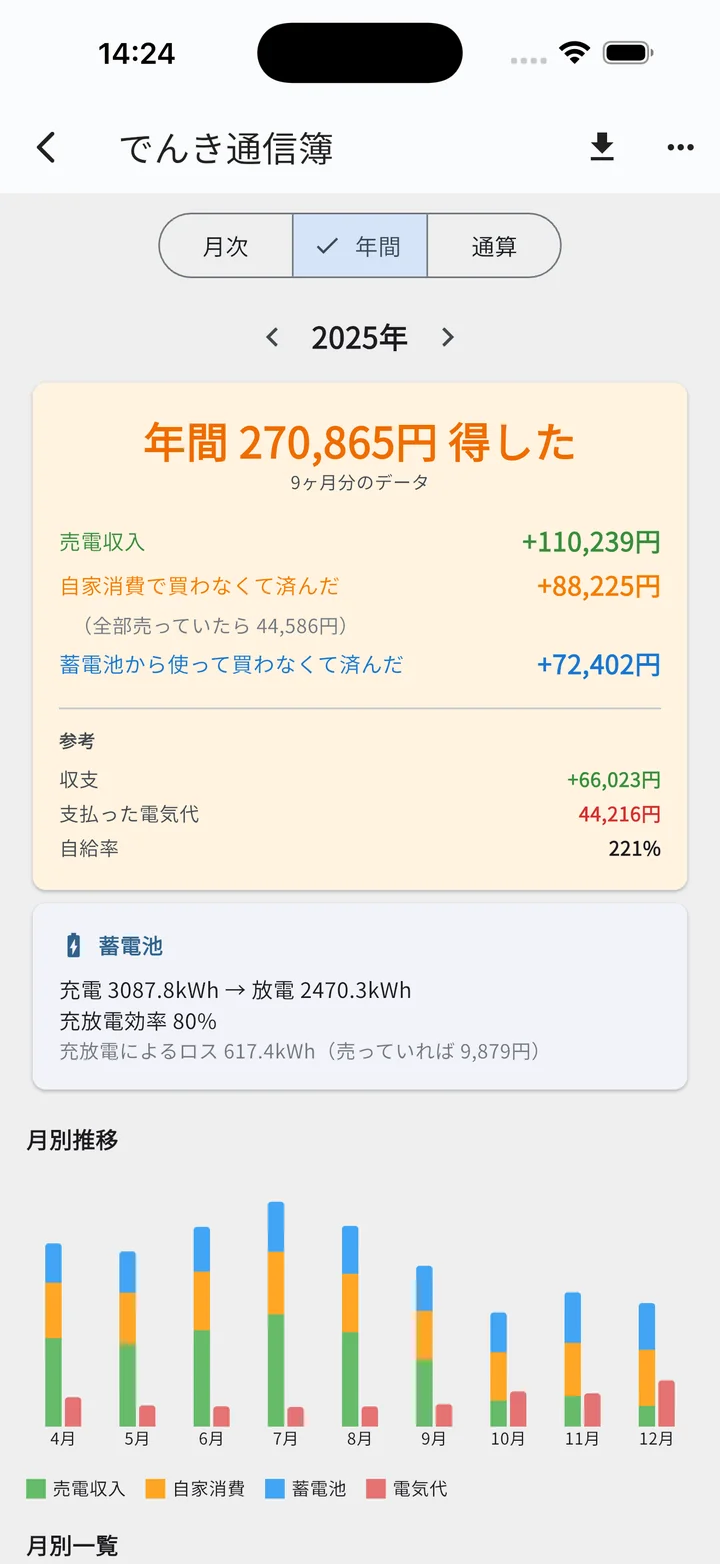
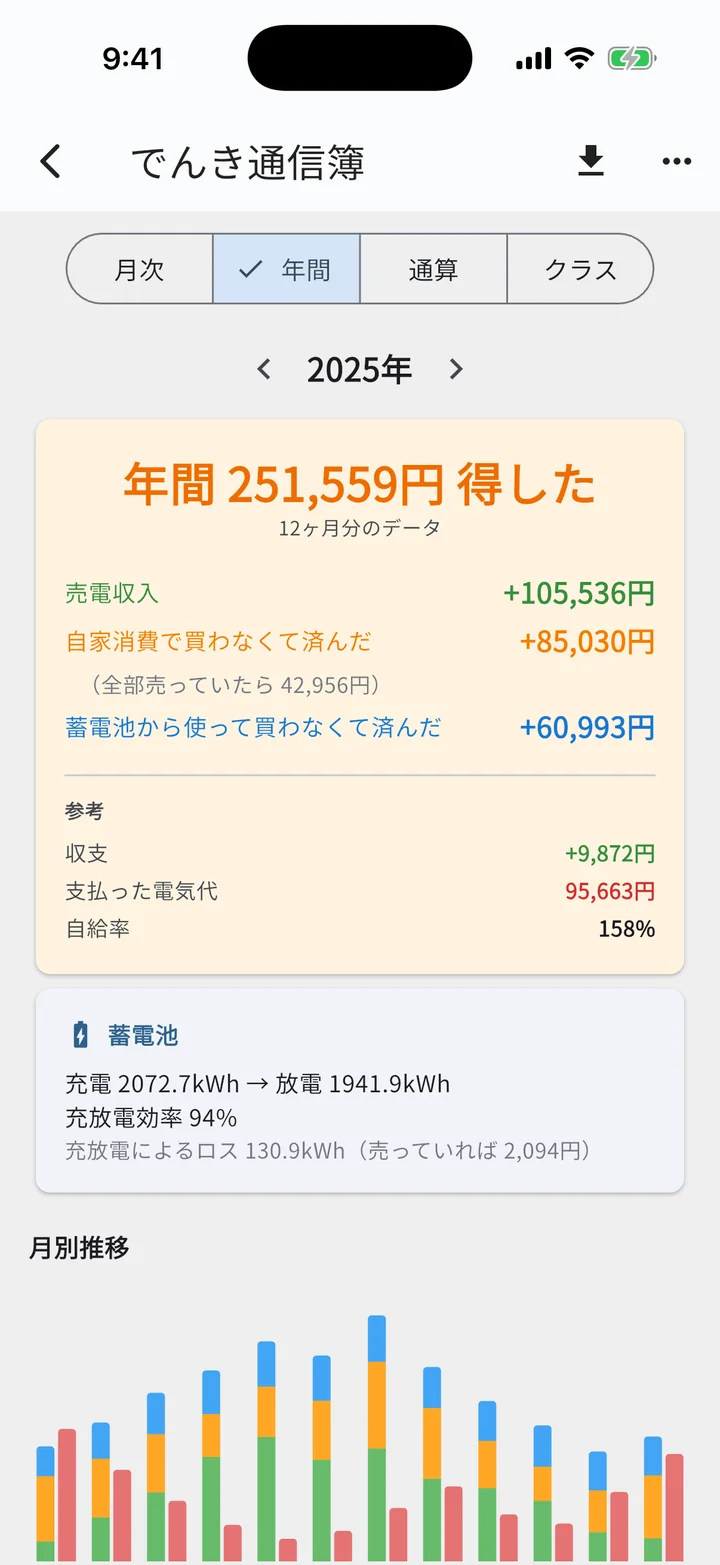
docs: クラスの節にスクショを追加し、実装に合わせて説明を直す
- クラスの提出・通信簿・歴代ベスト・詳しい画面・提出の設定の画面を追加
- セグメントが 4 つになった でんき通信簿の画面と、はじめましょうの画面を差し替え
- 取り込み完了ダイアログ・月次のカード・集計の日付・集まってきているカードの説明を実装に合わせる
- FAQ の「見られませんか」を図面や見積りの話に絞る

diff --git a/docs/manual.html b/docs/manual.html
@@ -2981,7 +2981,7 @@
   <thead><tr><th>形</th><th>目安</th><th>表示内容</th></tr></thead>
   <tbody>
     <tr><td>小</td><td>iOS の小 ／ Android の 2×2 ほど</td><td>見出し「次のお手入れ」と、期日がいちばん近いお手入れ 1 件（名前・場所・残り日数・進み具合のバー）。今すぐのものがあるときは「今すぐ ◯件」も出ます</td></tr>
-    <tr><td>中</td><td>iOS の中 ／ Android の 4×2 ほど</td><td>「今すぐ」「もうすぐ」「在庫わずか」の数と、期日が近いお手入れ 3 件まで</td></tr>
+    <tr><td>中</td><td>iOS の中 ／ Android の 4×2 ほど（スマホ。タブレットでは 4×2 でも大になります）</td><td>「今すぐ」「もうすぐ」「在庫わずか」の数と、期日が近いお手入れ 3 件まで</td></tr>
     <tr><td>大</td><td>iOS の大 ／ Android の 4×3 以上</td><td>今日の日付と件数、「今すぐ」「もうすぐ」の一覧。下に「余裕あり」「今日実施」の件数</td></tr>
     <tr><td>特大</td><td>iPad の特大 ／ 横に広い Android タブレット</td><td>「今すぐ」「もうすぐ」「今日実施」と「在庫わずか」（消耗品の名前と在庫数）を 3 列の当番表で表示</td></tr>
   </tbody>
@@ -2998,7 +2998,7 @@
 <ul>
   <li><strong>「アプリでお手入れを追加してください」</strong>：お手入れが 1 件もないときの表示です</li>
   <li><strong>「今すぐのお手入れはありません」</strong>：今すぐのものがないときの表示です。次のお手入れがあれば、その下に表示されます</li>
-  <li><strong>「アプリを開くと表示されます」</strong>：ウィジェットに表示するデータがまだないときの表示です（ウィジェットを置いた直後やアプリの更新の直後など）。アプリを一度開くと表示されます</li>
+  <li><strong>「アプリを開くと表示されます」</strong>：アプリをインストール（更新）してから、まだ一度もアプリを開いていないときの表示です。アプリを一度開くと表示されます</li>
 </ul>
 
 <h4>タップしたとき</h4>
@@ -3011,7 +3011,7 @@
 <h4>更新のタイミング</h4>
 <ul>
   <li>アプリでお手入れ・部屋・消耗品・担当などを変えると、すぐに反映されます。アプリを開いたときや、アプリに戻ってきたときも最新になります</li>
-  <li>残り日数と「今すぐ」「もうすぐ」の分け方は、日付が変わると自動で進みます（アプリを開かなくても「あと1日」→「今日」→「1日超過」と変わります）</li>
+  <li>残り日数と「今すぐ」「もうすぐ」の分け方は、日付が変わると自動で進みます（アプリを開かなくても「あと1日」→「今日」→「1日超過」と変わります。切り替わるのは 0 時ちょうどとは限らず、少し遅れることがあります）</li>
   <li><a href="#maintenance-family">家族と共有</a>中に家族が記録した内容は、この端末でアプリを開いたときに反映されます</li>
   <li>デモモード中はウィジェットの表示を書き換えません（デモを始める前の表示のままです）</li>
 </ul>
@@ -3049,15 +3049,15 @@
 
 <div class="shot-grid">
   <figure class="shot-phone">
-    <img src="images/electricity_monthly.webp" width="720" height="1564" alt="でんき通信簿メイン（月次）" loading="lazy" decoding="async">
+    <img src="images/electricity_monthly.webp" width="720" height="1565" alt="でんき通信簿メイン（月次・得した合計の下にクラスのカード）" loading="lazy" decoding="async">
     <figcaption>月次セグメント</figcaption>
   </figure>
   <figure class="shot-phone">
-    <img src="images/electricity_annual.webp" width="720" height="1564" alt="でんき通信簿メイン（年間）" loading="lazy" decoding="async">
+    <img src="images/electricity_annual.webp" width="720" height="1565" alt="でんき通信簿メイン（年間）" loading="lazy" decoding="async">
     <figcaption>年間セグメント</figcaption>
   </figure>
   <figure class="shot-phone">
-    <img src="images/electricity_total.webp" width="720" height="1564" alt="でんき通信簿メイン（通算）" loading="lazy" decoding="async">
+    <img src="images/electricity_total.webp" width="720" height="1565" alt="でんき通信簿メイン（通算）" loading="lazy" decoding="async">
     <figcaption>通算セグメント</figcaption>
   </figure>
   <figure class="shot-phone">
@@ -3108,7 +3108,7 @@
   <li><strong>右上のメニューから「CSVインポート」</strong></li>
   <li><strong>ファイルピッカーでCSVを選択</strong></li>
   <li><strong>取り込み進捗を確認</strong></li>
-  <li><strong>インポート完了ダイアログ</strong><p>取り込んだ件数・対象期間・月数が表示されます。新記録（発電量・収支など）を更新した場合は、🏆 マークとともに「レコード更新！」セクションで何の記録がどれだけ伸びたかが一覧表示されます。この取り込みで新しくそろった月があると、「OK」の左に「◯年◯月分をクラスに提出する」が出ます（<a href="#electricity-class-submit">クラスへの提出</a>）。OKを押すと、画面が自動で最新月に更新されます。</p></li>
+  <li><strong>インポート完了ダイアログ</strong><p>取り込んだ件数・対象期間・月数が表示されます。新記録（発電量・収支など）を更新した場合は、🏆 マークとともに「レコード更新！」セクションで何の記録がどれだけ伸びたかが一覧表示されます。この取り込みで新しくそろった月があると、「OK」の左に「◯年◯月分をクラスに提出する」が出ます（<a href="#electricity-class-submit">クラスへの提出</a>。自動で提出する設定のときは、代わりにダイアログの中に提出の結果が出ます）。OKを押すと、画面が自動で最新月に更新されます。</p></li>
 </ol>
 
 <div class="shot-grid">
@@ -3117,8 +3117,8 @@
     <figcaption>取り込み中</figcaption>
   </figure>
   <figure class="shot-phone">
-    <img src="images/electricity_csv_done.webp" width="720" height="1564" alt="CSV取り込み完了ダイアログ（新記録の通知付き）" loading="lazy" decoding="async">
-    <figcaption>取り込み完了（新記録の通知付き）</figcaption>
+    <img src="images/electricity_csv_done.webp" width="720" height="1565" alt="CSV取り込み完了ダイアログ（新記録の通知と「2026年7月分をクラスに提出する」付き）" loading="lazy" decoding="async">
+    <figcaption>取り込み完了（新記録の通知・クラスに提出するボタン付き）</figcaption>
   </figure>
 </div>
 
@@ -3398,8 +3398,8 @@
 
 <div class="shot-grid">
   <figure class="shot-phone">
-    <img src="images/electricity_monthly.webp" width="720" height="1564" alt="月次レポート 上半分（得した合計・蓄電池）" loading="lazy" decoding="async">
-    <figcaption>月次レポート上半分：得した合計・蓄電池</figcaption>
+    <img src="images/electricity_monthly.webp" width="720" height="1565" alt="月次レポート 上半分（得した合計・クラスのカード・蓄電池）" loading="lazy" decoding="async">
+    <figcaption>月次レポート上半分：得した合計・クラスのカード・蓄電池</figcaption>
   </figure>
   <figure class="shot-phone">
     <img src="images/electricity_monthly_scroll.webp" width="720" height="1564" alt="月次レポート 下半分（ヒートマップ・日別リスト・ハイライト）" loading="lazy" decoding="async">
@@ -3425,7 +3425,7 @@
 
 <div class="shot-grid">
   <figure class="shot-phone">
-    <img src="images/electricity_annual.webp" width="720" height="1564" alt="年間レポート 上半分（年間の得した合計・蓄電池・月別棒グラフ）" loading="lazy" decoding="async">
+    <img src="images/electricity_annual.webp" width="720" height="1565" alt="年間レポート 上半分（年間の得した合計・蓄電池・月別棒グラフ）" loading="lazy" decoding="async">
     <figcaption>年間レポート上半分：年間の得した合計・蓄電池・棒グラフ</figcaption>
   </figure>
   <figure class="shot-phone">
@@ -3484,7 +3484,7 @@
 </table>
 <div class="shot-grid">
   <figure class="shot-phone">
-    <img src="images/electricity_records_daily.webp" width="720" height="1564" alt="デイリーベスト（1日の記録 8 項目）" loading="lazy" decoding="async">
+    <img src="images/electricity_records_daily.webp" width="720" height="1565" alt="デイリーベスト（1日の記録 8 項目）" loading="lazy" decoding="async">
     <figcaption>デイリーベスト</figcaption>
   </figure>
   <figure class="shot-phone">
@@ -3556,8 +3556,8 @@
 <h4 id="electricity-class-submit">提出のしかた</h4>
 <p>提出できるのは、その月のデータが月末までそろった月です（途中の月は提出できません）。過去の月も提出できます。入口は次の 3 つで、どれも同じ「提出する内容」の画面が開きます。</p>
 <ul>
-  <li><strong>CSV 取り込みの完了ダイアログ</strong>：その取り込みで新しくそろった月があると、「OK」の左に<strong>「◯年◯月分をクラスに提出する」</strong>が出ます</li>
-  <li><strong>月次レポートのカード</strong>：得した合計カードのすぐ下に出ます。まだ提出したことがないときは「提出すると、クラスの通信簿がもらえます」（× で閉じると、この端末では出なくなります）。提出している人には「◯年◯月分をクラスに提出する」、提出済みの月は「◯年◯月分を提出しました」と「クラスの通信簿を見る ›」（押すとクラスの画面のその月へ）。料金プランが未設定のあいだは、このカードは出ません</li>
+  <li><strong>CSV 取り込みの完了ダイアログ</strong>：その取り込みで新しくそろった月があると、「OK」の左に<strong>「◯年◯月分をクラスに提出する」</strong>が出ます（自動で提出する設定のときは、ボタンの代わりに提出の結果が出ます。送れなかったときだけボタンが出ます）</li>
+  <li><strong>月次レポートのカード</strong>：得した合計カードのすぐ下に出ます。まだ提出したことがないときは「提出すると、クラスの通信簿がもらえます」（× で閉じると、この端末では出なくなります）。提出している人には「◯年◯月分をクラスに提出する」、提出済みの月は「◯年◯月分を提出しました」と「クラスの通信簿を見る ›」（押すとクラスの画面のその月へ）。料金プランが未設定のあいだと、今後の提出をやめたあとは、このカードは出ません</li>
   <li><strong>クラスのセグメント</strong>：まだ提出していないときは「発電量や電気代などが、提出した家の中で上位何%かが分かります」の説明と「提出する」ボタン（いちばん新しい月の提出の画面が開きます）</li>
 </ul>
 
@@ -3577,12 +3577,34 @@
   <li><strong>「提出する」</strong>：押すと送信します。提出するのは、この画面に表示している数字だけです</li>
 </ol>
 
+<div class="shot-grid">
+  <figure class="shot-phone">
+    <img src="images/class_submit_sheet_top.webp" width="720" height="1565" alt="「提出する内容」の画面の上部（2026年7月分の月の数字 8 つと、家の情報の「提出する」スイッチ）" loading="lazy" decoding="async">
+    <figcaption>提出する内容：月の数字と家の情報</figcaption>
+  </figure>
+  <figure class="shot-phone">
+    <img src="images/class_submit_sheet_bottom.webp" width="720" height="1565" alt="「提出する内容」の画面の下部（これまでの月もまとめて提出する・歴代ベストもいっしょに提出します）" loading="lazy" decoding="async">
+    <figcaption>まとめて提出・歴代ベスト</figcaption>
+  </figure>
+</div>
+
 <h5>提出したあと</h5>
 <ul>
   <li>「提出しました」と「今回の数字は、明日からクラスの通信簿に載ります」が出ます。集計は 1 日 1 回、朝 4 時ごろです</li>
-  <li><strong>「次からは、データを取り込んだときに自動で提出する」</strong>（はじめは OFF）：ON にすると、次からは CSV を取り込んで新しくそろった月を自動で提出します（歴代ベストもいっしょに提出します）。結果は取り込み完了ダイアログの下に「◯年◯月分を提出しました」のように出ます。あとからクラスの画面や<a href="#electricity-class-settings">提出の設定</a>で切り替えられます</li>
+  <li><strong>「次からは、データを取り込んだときに自動で提出する」</strong>（はじめは OFF）：ON にすると、次からは CSV を取り込んで新しくそろった月を自動で提出します（歴代ベストもいっしょに提出します）。結果は取り込み完了ダイアログの中に「◯年◯月分を提出しました」のように出ます（通信できないときは「まだ提出できていません」、送れなかったときは「提出できませんでした」と「◯年◯月分をクラスに提出する」）。あとからクラスの画面や<a href="#electricity-class-settings">提出の設定</a>で切り替えられます</li>
   <li>通信できないときは「まだ提出できていません」と出ます。通信できるようになると、自動で提出されます</li>
 </ul>
+
+<div class="shot-grid">
+  <figure class="shot-phone">
+    <img src="images/class_done_sheet.webp" width="720" height="1565" alt="「提出しました」の画面（2026年7月分の提出のはんこ・次からは自動で提出するスイッチ・クラスの通信簿を見る）" loading="lazy" decoding="async">
+    <figcaption>提出しました・自動で提出するスイッチ</figcaption>
+  </figure>
+  <figure class="shot-phone">
+    <img src="images/class_import_auto.webp" width="720" height="1565" alt="自動で提出したときの取り込み完了ダイアログ（クラス 2026年8月分を提出しました）" loading="lazy" decoding="async">
+    <figcaption>自動の提出の結果（取り込み完了ダイアログ）</figcaption>
+  </figure>
+</div>
 
 <h4 id="electricity-class-screen">クラスの画面（クラスの通信簿）</h4>
 <p>セグメントの「クラス」を選ぶと開きます。上から順に、切り替え・ハイライト・クラスの通信簿が並びます。</p>
@@ -3604,11 +3626,22 @@
   <li><strong>クラスの通信簿</strong>：8 つの科目の自分の数字と、位置（<strong>「上位◯%」「真ん中」「下位◯%」</strong>）が並びます。どの科目も<strong>数字の大きい順</strong>に数えます（電気代・消費量・買電量も、大きいほど「上位」です）</li>
   <li><strong>メダルとはんこ</strong>：上位 3% 以内は金のメダル、上位 4〜10% は朱のはんこが付きます</li>
   <li><strong>← →</strong>：月（期間が年なら年）を切り替えます。提出して集計に入った月（年）だけに移動します</li>
-  <li><strong>「◯月◯日の集計」と ↻</strong>：いつの集計かを表示します。↻ で最新の集計を読み込みます</li>
+  <li><strong>「2026/09/28の集計」のような日付と ↻</strong>：いつの集計かを表示します。↻ で最新の集計を読み込みます</li>
   <li>位置が出ないときは、行に理由が出ます：「まだ比べられる家が少ないです」／「延床を入力すると表示されます」「太陽光の容量を提出すると表示されます」など（行を押すと、その場で入力して提出済みの月と歴代ベストに付けて提出できます。表示されるのは明日からです）／「料金プラン未設定」</li>
-  <li>位置が 1 つも出ないときは、通信簿の代わりに<strong>「提出した家が集まってきています」</strong>のカードが出ます（いまの軒数の目安と、10 軒以上で表示されること）。「すべての家で見る」で比べる家を戻せます</li>
+  <li>位置が 1 つも出ないときは、ハイライトの代わりに<strong>「提出した家が集まってきています」</strong>のカードが出ます（いまの軒数の目安と、10 軒以上で表示されること）。「すべての家で見る」で比べる家を戻せます</li>
   <li>同じ断熱地域・同じ売電単価で比べられないときは、理由と、入力・提出・売電プランの設定への近道がカードで出ます。月の途中で売電プランが変わった月は、同じ売電単価の家とは比べられません（年で見ているときは「月ごとに見る」）</li>
 </ul>
+
+<div class="shot-grid">
+  <figure class="shot-phone">
+    <img src="images/class_report_month.webp" width="720" height="1565" alt="クラスの画面（比べる家・ものさし・期間の切り替え、7月のあなたの一番 = 発電量 上位1%、クラスの通信簿のメダルとはんこ）" loading="lazy" decoding="async">
+    <figcaption>切り替え・ハイライト・クラスの通信簿</figcaption>
+  </figure>
+  <figure class="shot-phone">
+    <img src="images/class_gathering.webp" width="720" height="1565" alt="同じ断熱地域で比べたときの「5 地域の家が集まってきています」のカード（軒数の目安・すべての家で見る）" loading="lazy" decoding="async">
+    <figcaption>提出した家が集まってきています</figcaption>
+  </figure>
+</div>
 
 <h5>期間：年</h5>
 <p>1 月からの合計で比べます（年の途中は「1〜◯月の合計」）。比べる相手は、その年の 1 月から同じ月までを<strong>すべて提出した家</strong>です。途中の月が抜けているときは「◯月分がまだ提出されていません」と出て、合計と位置は表示されません（「提出する」から抜けた月を提出できます）。</p>
@@ -3616,8 +3649,8 @@
 <h5>期間：歴代ベスト</h5>
 <p>自分の歴代ベスト（科目ごとの過去最高の 1 か月）が、提出した家の歴代ベストの中でどのあたりかを表示します。上位 10% 以内の科目には<strong>「殿堂入り」</strong>の札が付きます。記録を更新すると、翌日から歴代ベストに反映されます。同じ売電単価で比べるときは、記録の月の売電単価ごとに比べます。</p>
 
-<h5>くわしく（行をタップ）</h5>
-<p>通信簿の行（› が付いた行）をタップすると、その科目の「くわしく」が開きます。</p>
+<h5>科目の詳しい画面（行をタップ）</h5>
+<p>通信簿の行（› が付いた行）をタップすると、その科目の詳しい画面が下から開きます。</p>
 <ul>
   <li>比べた条件（期間・比べる家と軒数の目安・ものさし）と、自分の数字・位置</li>
   <li>「中央値」「下位25%の境目」「上位25%の境目」（10 軒以上のとき）</li>
@@ -3625,6 +3658,17 @@
   <li>自分の数字と中央値の推移のグラフ（歴代ベスト以外）</li>
   <li>注記：金額の科目は「金額は、料金プランの違いも含めて比べています」、自給率は「自給率は発電量 ÷ 消費量です。100%を超えることがあります」。どの科目も<strong>提出したときの数字</strong>で比べています（あとからマイページや料金プランを直しても、提出済みの数字は変わりません）</li>
 </ul>
+
+<div class="shot-grid">
+  <figure class="shot-phone">
+    <img src="images/class_best.webp" width="720" height="1565" alt="期間：歴代ベスト（殿堂入りの札が付いた科目と、各科目の位置）" loading="lazy" decoding="async">
+    <figcaption>歴代ベスト（殿堂入り）</figcaption>
+  </figure>
+  <figure class="shot-phone">
+    <img src="images/class_detail.webp" width="720" height="1565" alt="自給率の詳しい画面（中央値・下位25%の境目・上位25%の境目、分布の図、月別推移）" loading="lazy" decoding="async">
+    <figcaption>科目の詳しい画面：中央値・分布・推移</figcaption>
+  </figure>
+</div>
 
 <h4 id="electricity-class-settings">提出の設定・今後の提出をやめる</h4>
 <p>クラスの画面のいちばん下に「提出の設定」があります。</p>
@@ -3638,6 +3682,17 @@
   <li><strong>提出した月</strong>：年ごとに、提出した月が並びます</li>
   <li><strong>家の情報</strong>：延床・太陽光の容量・断熱地域・売電単価のそれぞれを、次から提出するかどうかをスイッチで切り替えます。切り替えは次の提出から反映され、提出済みの月は変わりません。提出済みの月の値を直すときは、その行を押して入力し直してください（提出済みの月と歴代ベストに付けて提出し直します）</li>
 </ul>
+
+<div class="shot-grid">
+  <figure class="shot-phone">
+    <img src="images/class_settings_tail.webp" width="720" height="1565" alt="クラスの画面のいちばん下の「提出の設定」（自動で提出するスイッチ・今後の提出をやめる・クラスのサポート用 ID）" loading="lazy" decoding="async">
+    <figcaption>クラスの画面の末尾：提出の設定</figcaption>
+  </figure>
+  <figure class="shot-phone">
+    <img src="images/class_settings_sheet.webp" width="720" height="1565" alt="設定から開いた「でんき通信簿のクラス」（提出した月・自動で提出するスイッチ・家の情報のスイッチ）" loading="lazy" decoding="async">
+    <figcaption>設定 &gt; でんき通信簿のクラス</figcaption>
+  </figure>
+</div>
 <div class="callout info">
   <p>延床・太陽光の容量・断熱地域は、<a href="#mypage-edit">マイページ</a>の値をそのまま使います。マイページで直しても、その場では提出されず、次の提出から変更後の値になります。クラスに提出している間は、マイページの編集画面のこの 3 つの欄の下に「でんき通信簿のクラスにも提出しています。変更は次の提出から反映されます」と表示されます。</p>
 </div>
@@ -3646,13 +3701,13 @@
 <table>
   <thead><tr><th></th><th>内容</th></tr></thead>
   <tbody>
-    <tr><td>送るもの</td><td>提出する月ごとの発電量・売電量・消費量・買電量（kWh）と自給率 ／ 得した合計・電気代・売電収入（円・料金プランを設定している月だけ）／ 売電単価（1 円単位）／ 断熱地域・延床（坪の整数）・太陽光の容量（0.1kW 単位）／ 歴代ベスト（8 科目の値と年月・その月の売電単価）。あわせて、アプリが自動で作る識別子と提出の日時が送られます</td></tr>
+    <tr><td>送るもの</td><td>提出する月ごとの発電量・売電量・消費量・買電量（kWh）と自給率 ／ 得した合計・電気代・売電収入（円・料金プランを設定している月だけ）／ 売電単価（1 円単位）／ 断熱地域・延床（坪の整数）・太陽光の容量（0.1kW 単位）／ 歴代ベスト（8 科目の値と年月・その月の売電単価）。あわせて、アプリが自動で作る ID と提出の日時が送られます</td></tr>
     <tr><td>送らないもの</td><td>名前・ニックネーム・写真・住所・都道府県・メールアドレス ／ 料金プラン名・電力会社 ／ 1 日ごと・1 時間ごとの数字 ／ 図面・見積りなどの書類</td></tr>
   </tbody>
 </table>
 <ul>
   <li><strong>保存期間</strong>：提出した数字は、最後に提出してから約 1 年で自動的に消えます。保存期間が過ぎると、クラスの画面に「提出した数字の保存期間（1年）が過ぎました。もう一度まとめて提出しますか」と出ます</li>
-  <li><strong>すぐに消したいとき</strong>：<a href="#electricity-class-settings">クラスのサポート用 ID</a> を添えて <a href="#contact">お問い合わせ</a> ください（設定 &gt; ご意見・不具合の報告、または info@smartolio.jp）。アプリを入れ直す前に提出した数字は、今の ID では特定できません（最後の提出から約 1 年で自動的に消えます）</li>
+  <li><strong>すぐに消したいとき</strong>：<a href="#electricity-class-settings">クラスのサポート用 ID</a> を添えて <a href="#contact">お問い合わせ</a> ください（設定 &gt; ご意見・不具合の報告、または info@smartolio.jp）。アプリを入れ直す前に提出した数字は、今の ID では特定できないことがあります（最後の提出から約 1 年で自動的に消えます）</li>
 </ul>
 <p>くわしくは <a href="https://smartolio.jp/privacy/ichijo-unofficial-app/" target="_blank" rel="noopener">プライバシーポリシー</a> をご覧ください。</p>
 
@@ -3670,7 +3725,7 @@
   <div class="action-row"><strong>実績データ削除（右上メニュー）</strong><span>月次：当月／年次：当年／通算：年＋月ツリーピッカーで選択削除</span></div>
   <div class="action-row"><strong>「◯年◯月分をクラスに提出する」</strong><span>クラスへの提出の画面を開く（取り込み完了ダイアログ・月次のカード）</span></div>
   <div class="action-row"><strong>クラス：比べる家／ものさし／期間</strong><span>クラスの通信簿の比べ方を切替</span></div>
-  <div class="action-row"><strong>クラス：通信簿の行をタップ</strong><span>その科目の「くわしく」（中央値・分布・推移）を開く</span></div>
+  <div class="action-row"><strong>クラス：通信簿の行をタップ</strong><span>その科目の詳しい画面（中央値・分布・推移）を開く</span></div>
   <div class="action-row"><strong>クラス：↻</strong><span>最新の集計を読み込む</span></div>
   <div class="action-row"><strong>クラス：今後の提出をやめる</strong><span>確認のあと、今後の提出と自動の提出を止める</span></div>
 </div>
@@ -4621,7 +4676,7 @@
   <li><strong>「まだ比べられる家が少ないです」「提出した家が集まってきています」と出る</strong>：比べる家が 10 軒以上になると、上位・下位が表示されます。「同じ断熱地域」「同じ売電単価」で足りないときは、「すべての家」に切り替えてみてください</li>
   <li><strong>坪・kW あたりの数字が「—」になる</strong>：延床・太陽光の容量が入っていないか、提出しない設定になっています。行を押すと、その場で入力して提出できます → <a href="#electricity-class-screen">クラスの通信簿</a></li>
   <li><strong>同じ売電単価の家と比べられない</strong>：<a href="#electricity-plan">売電プラン</a>を設定してから提出してください。月の途中で売電プランが変わった月は、同じ売電単価の家とは比べられません</li>
-  <li><strong>「◯年◯月分をクラスに提出する」が出ない</strong>：その月のデータが月末までそろっていない、デモモード・開発者モードがオンになっている、のどちらかが考えられます。月次のカードは料金プランが未設定のあいだと、× で閉じたあとは出ません（取り込み完了ダイアログとクラスの画面からは提出できます）</li>
+  <li><strong>「◯年◯月分をクラスに提出する」が出ない</strong>：その月のデータが月末までそろっていない、デモモード・開発者モードがオンになっている、今後の提出をやめている、のどれかが考えられます。その月を提出済みのときは「◯年◯月分を提出しました」が出ます。自動で提出する設定のときは、取り込み完了ダイアログにはボタンではなく提出の結果が出ます。月次のカードは料金プランが未設定のあいだと、× で閉じたあとは出ません（取り込み完了ダイアログとクラスの画面からは提出できます）</li>
   <li><strong>「まだ提出できていません」と出る</strong>：通信できない状態でした。通信できるようになると、自動で提出されます</li>
   <li><strong>提出した数字を消したい</strong>：何もしなくても、最後の提出から約 1 年で自動的に消えます。すぐに消したいときは、クラスの画面の下（または 設定 &gt; データ管理 &gt; でんき通信簿のクラス）に表示される「クラスのサポート用 ID」を添えて <a href="#contact">お問い合わせ</a> ください → <a href="#electricity-class-data">送る数字と保存期間</a></li>
 </ul>

diff --git a/docs/index.html b/docs/index.html
@@ -43,7 +43,7 @@
   "@context": "https://schema.org",
   "@type": "FAQPage",
   "mainEntity": [
-    {"@type": "Question", "name": "私の図面や見積りのデータは誰かに見られませんか？", "acceptedAnswer": {"@type": "Answer", "text": "見られません。取り込んだデータはすべてお使いのスマホの中だけに保管され、インターネットを通じてどこかに送られることはありません。アプリの開発者にも中身は一切見えない仕組みです。お手入れ当番表の「家族と共有」を使う場合は、当番表のデータなど共有と通知に必要な情報が同期のためにサーバーへ送られます。でんき通信簿の「クラス」に提出を選んだ場合は、月ごとの電気の数字と家の条件（断熱地域・延床面積など）が送られます（図面や見積りは送られません）。"}},
+    {"@type": "Question", "name": "私の図面や見積りのデータは誰かに見られませんか？", "acceptedAnswer": {"@type": "Answer", "text": "見られません。取り込んだ図面や見積りは、すべてお使いのスマホの中だけに保管され、インターネットを通じてどこかに送られることはありません。アプリの開発者にも中身は一切見えない仕組みです。お手入れ当番表の「家族と共有」を使う場合は、当番表のデータなど共有と通知に必要な情報が同期のためにサーバーへ送られます。でんき通信簿の「クラス」に提出を選んだ場合は、月ごとの電気の数字と家の条件（断熱地域・延床面積など）が送られます（図面や見積りは送られません）。"}},
     {"@type": "Question", "name": "アカウント登録やログインは必要ですか？", "acceptedAnswer": {"@type": "Answer", "text": "不要です。インストールしたらすぐに使えます。メールアドレスなどの個人情報の入力も一切ありません。"}},
     {"@type": "Question", "name": "PDFはどうやって取り込みますか？", "acceptedAnswer": {"@type": "Answer", "text": "一条公式アプリ（iサポ）でダウンロードしたPDFを「共有」からこのアプリに送るだけです。クラウドやスマホ内に保存してある場合は、まとめて一気に取り込むこともできます。"}},
     {"@type": "Question", "name": "一条公式アプリ「iサポ」と何が違うのですか？", "acceptedAnswer": {"@type": "Answer", "text": "iサポは一条工務店の公式アプリです。このアプリは、iサポで受け取った図面や見積りのPDFを取り込んで「前回からどこが変わったか」を確認したり、見積りの増減を追ったりするための、施主が個人で作った非公式のツールです。"}},
@@ -978,7 +978,7 @@
 
       <details class="faq-item">
         <summary>Q. 私の図面や見積りのデータは誰かに見られませんか？</summary>
-        <p class="faq-a">見られません。取り込んだデータはすべてお使いのスマホの中だけに保管され、インターネットを通じてどこかに送られることはありません。アプリの開発者にも中身は一切見えない仕組みです。お手入れ当番表の「家族と共有」を使う場合は、当番表のデータなど共有と通知に必要な情報が同期のためにサーバーへ送られます。でんき通信簿の「クラス」に提出を選んだ場合は、月ごとの電気の数字と家の条件（断熱地域・延床面積など）が送られます（図面や見積りは送られません）。</p>
+        <p class="faq-a">見られません。取り込んだ図面や見積りは、すべてお使いのスマホの中だけに保管され、インターネットを通じてどこかに送られることはありません。アプリの開発者にも中身は一切見えない仕組みです。お手入れ当番表の「家族と共有」を使う場合は、当番表のデータなど共有と通知に必要な情報が同期のためにサーバーへ送られます。でんき通信簿の「クラス」に提出を選んだ場合は、月ごとの電気の数字と家の条件（断熱地域・延床面積など）が送られます（図面や見積りは送られません）。</p>
       </details>
 
       <details class="faq-item">
